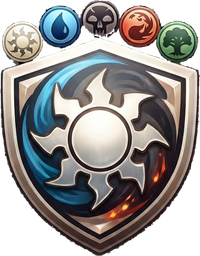
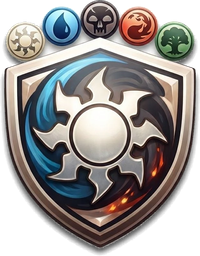
Icona dalla versione su sfondo bianco; release chiamate MTGUtils-N
- Tag e titolo delle release MTGUtils-N; le app fino ad apk-11 guardano solo il numero e la vedono come aggiornamento

diff --git a/src/lib/version.ts b/src/lib/version.ts
@@ -1,9 +1,9 @@
-// Versione dell'app (es. "apk-9" o "test-3", la stessa della Release su GitHub) e controllo di una versione più nuova.
+// Versione dell'app (es. "MTGUtils-12", la stessa della Release su GitHub) e controllo di una versione più nuova.
 // Le due variabili le imposta il workflow dell'APK; in sviluppo mancano e il controllo non parte.
-// L'app vera guarda solo le release "apk-N", l'app di prova solo le pre-release "test-N".
+// L'app guarda solo le release del suo canale (il nome prima del numero, es. "MTGUtils-").
 export const APP_VERSION = import.meta.env.VITE_APP_VERSION as string | undefined
 const REPO = import.meta.env.VITE_GITHUB_REPO as string | undefined
-const PREFIX = APP_VERSION?.replace(/\d+$/, '') ?? 'apk-' // "apk-" oppure "test-"
+const PREFIX = APP_VERSION?.replace(/\d+$/, '') ?? 'MTGUtils-'
 
 export type Release = { tag: string; page: string; apk: string | null }
 type Cache = { at: number; release: Release | null }
